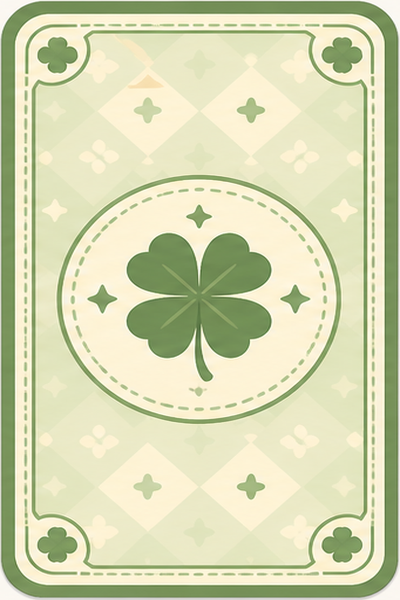
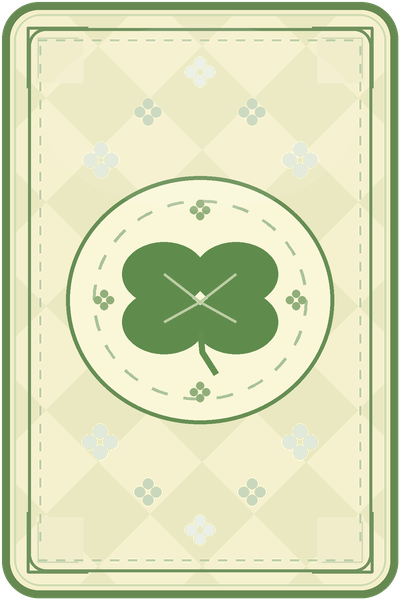
Fix Holdem lucky card back edges

diff --git a/tests/holdem-integration.test.js b/tests/holdem-integration.test.js
@@ -763,6 +763,8 @@ test("Hold'em chat keeps transient toasts separate from the recent typing histor
   assert.match(styles, /\.holdem-card\.back\s*\{[\s\S]*border-radius:\s*var\(--holdem-card-back-radius/);
   assert.match(styles, /\.holdem-board \.holdem-card\s*\{[\s\S]*--holdem-card-back-radius:\s*clamp\(7px/);
   assert.match(styles, /\.holdem-board \.holdem-card\.is-community-flipping::after\s*\{[\s\S]*border-radius:\s*var\(--holdem-card-back-radius,\s*inherit\)/);
+  assert.match(styles, /\.holdem-board \.holdem-card\.back:first-child,[\s\S]*border-top-left-radius:\s*var\(--holdem-card-back-radius/);
+  assert.match(styles, /\.holdem-board \.holdem-card\.back:last-child,[\s\S]*border-top-right-radius:\s*var\(--holdem-card-back-radius/);
   assert.match(styles, /\.holdem-seat-avatar\s*\{[\s\S]*overflow:\s*visible/);
   assert.match(styles, /\.holdem-seat-avatar img\s*\{[\s\S]*border-radius:\s*inherit/);
   assert.match(game, /function renderHoldemChatHistory\(\)/);

diff --git a/styles.css b/styles.css
@@ -4931,6 +4931,18 @@ body.is-admin .feedback-user-compose { display: none; }
   border-top-right-radius: var(--holdem-card-radius, 3px);
   border-bottom-right-radius: var(--holdem-card-radius, 3px);
 }
+.holdem-board .holdem-card.back:first-child,
+.holdem-result-board .holdem-card.back:first-child,
+.holdem-result-cards .holdem-card.back:first-child {
+  border-top-left-radius: var(--holdem-card-back-radius, var(--holdem-card-radius, 3px));
+  border-bottom-left-radius: var(--holdem-card-back-radius, var(--holdem-card-radius, 3px));
+}
+.holdem-board .holdem-card.back:last-child,
+.holdem-result-board .holdem-card.back:last-child,
+.holdem-result-cards .holdem-card.back:last-child {
+  border-top-right-radius: var(--holdem-card-back-radius, var(--holdem-card-radius, 3px));
+  border-bottom-right-radius: var(--holdem-card-back-radius, var(--holdem-card-radius, 3px));
+}
 .holdem-table-start-btn {
   position: absolute;
   z-index: 16;

diff --git a/index.html b/index.html
@@ -34,7 +34,7 @@
 })();
 </script>
 <meta name="viewport" content="width=device-width, initial-scale=1.0, maximum-scale=1.0, user-scalable=no, interactive-widget=resizes-content">
-<meta name="app-build" content="20260730-holdem-fold-win-hide-hand-v1">
+<meta name="app-build" content="20260730-holdem-card-back-edge-v1">
 <title>동네 운동회 게임방</title>
 <meta property="og:type" content="website">
 <meta property="og:title" content="동네 운동회 게임방">
